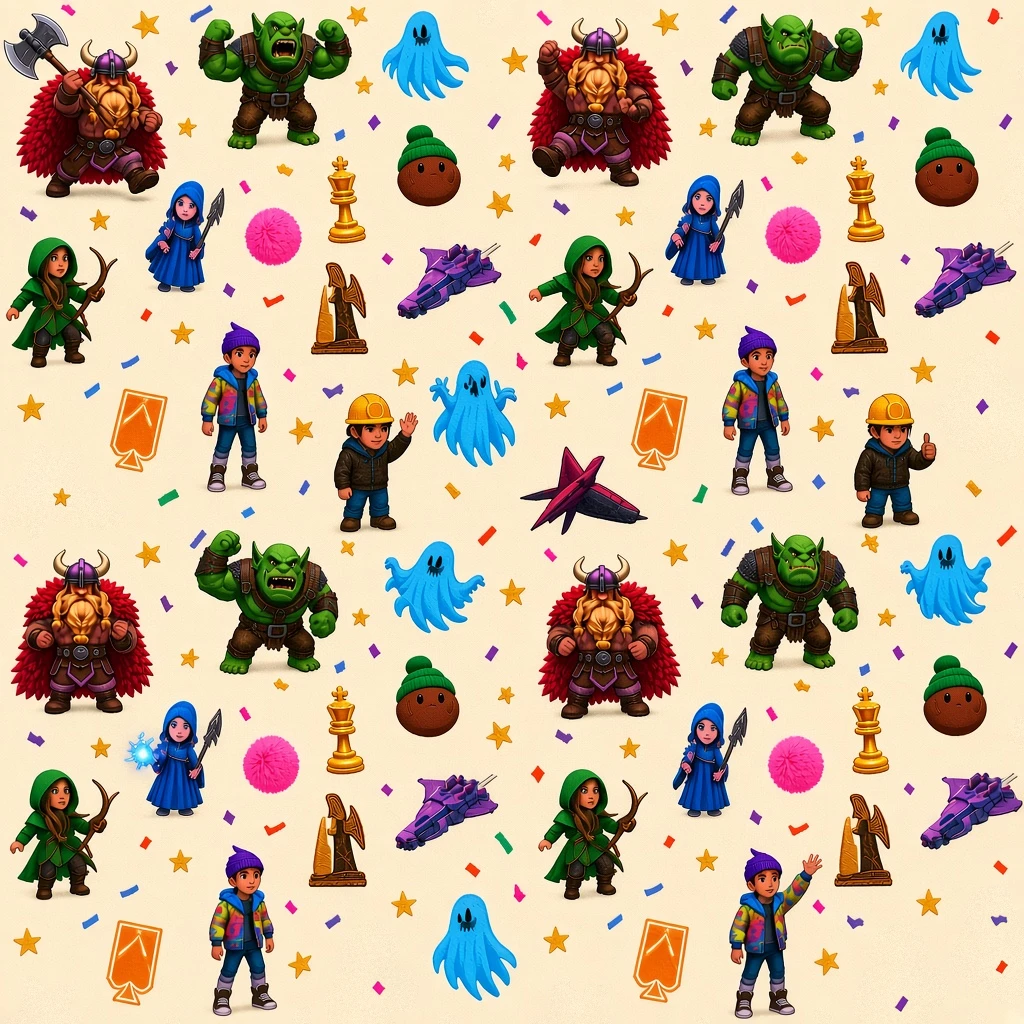
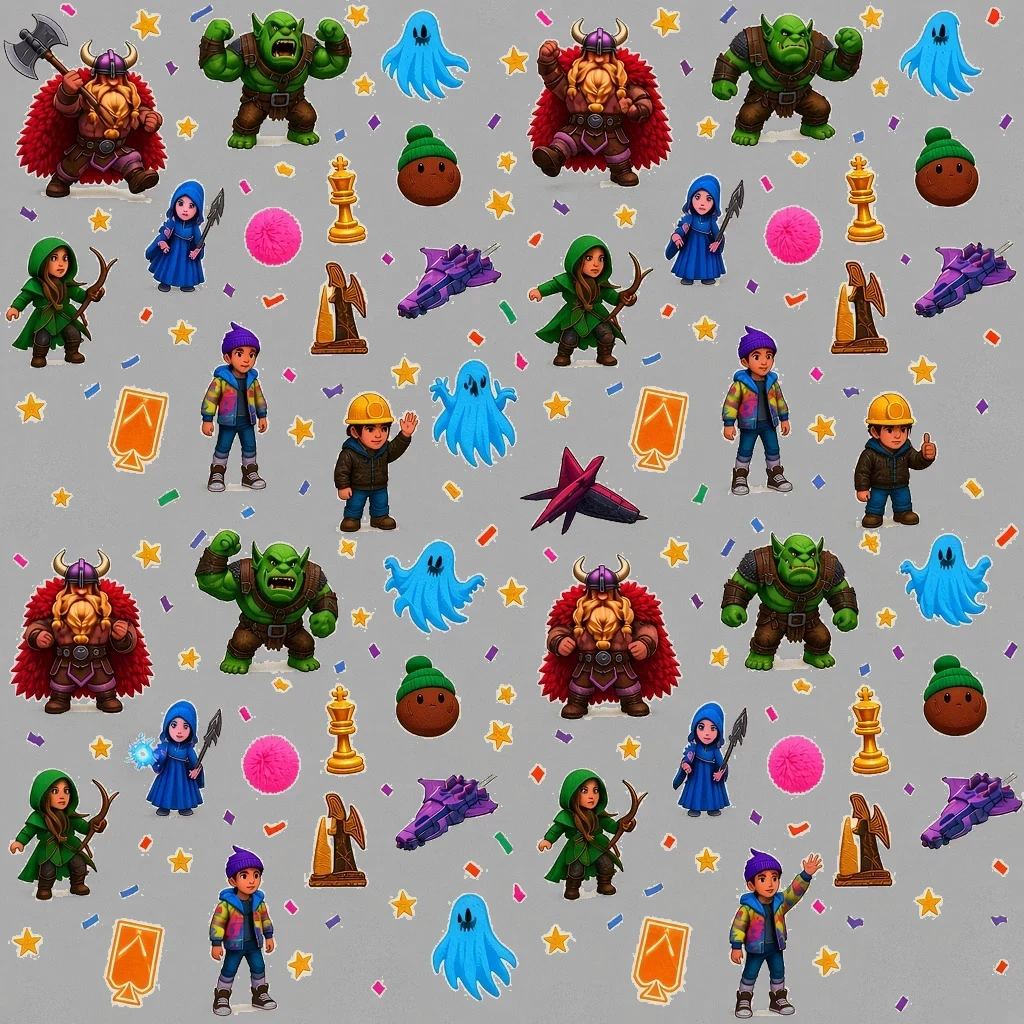
Floor menu: all 4 floors in one row (2nd row fell off-screen on phones), panel fits short screens; CHECKERS/LAVA shaders precompiled; sw revalidates (no stale HTTP cache); carpet renamed ARCADE, light grey; test/floor_tap.js; sw v56

diff --git a/test/options.js b/test/options.js
@@ -1,4 +1,4 @@
-// start screen START / OPTIONS buttons, taps elsewhere ignored, Options > FLOOR (neon / cream carpet) applied to every floor (room 1, hallway, room 2, white room) and saved
+// start screen START / OPTIONS buttons, taps elsewhere ignored, Options > FLOOR (neon / ARCADE light-grey character carpet ('carpet') / checkers / lava) applied to every floor (room 1, hallway, room 2, white room) and saved
 // node test/options.js [phone]
 const { open } = require('./lib');
 const PH = process.argv[2] === 'phone', sfx = PH ? '_phone' : '';
@@ -24,15 +24,16 @@ const PH = process.argv[2] === 'phone', sfx = PH ? '_phone' : '';
   // OPTIONS -> FLOOR tab
   await tap('#stOpt'); await page.waitForTimeout(500);
   const fl = await ev(() => { const im = [...document.querySelectorAll('#flTiles .flT img')]; return { on: !!document.querySelector('#opt.on'), n: im.length, loaded: im.every(i => i.complete && i.naturalWidth > 100), sel: document.querySelector('#flTiles .flT.sel').dataset.floor, tab: document.getElementById('tabFloor').textContent }; });
-  chk(fl.on && fl.tab === 'FLOOR' && fl.n === 4 && fl.loaded && fl.sel === 'neon', 'OPTIONS opens the menu: FLOOR tab with CURRENT, CARPET, CHECKERS, LAVA previews, neon selected');
+  chk(fl.on && fl.tab === 'FLOOR' && fl.n === 4 && fl.loaded && fl.sel === 'neon', 'OPTIONS opens the menu: FLOOR tab with CURRENT, ARCADE, CHECKERS, LAVA previews, neon selected');
   await page.screenshot({ path: `shots/options_floor${sfx}.png` });
   await tap('#flCarpet'); await page.waitForTimeout(400);
   b = await ev(() => ({ sel: document.querySelector('#flTiles .flT.sel').dataset.floor, floor: window.__arcade.floor, carpet: window.__arcade.carpet.visible, ls: localStorage.getItem('neonarcade.floor'), mg: window.__arcade.mirror.visible, all: ['carpet2', 'carpetW'].map(n => { const o = window.__arcade.room.parent.getObjectByName(n); return !!o && o.visible; }),
     hall: (() => { const g = window.__arcade.carpet.geometry; g.computeBoundingBox(); return +(g.boundingBox.max.y - g.boundingBox.min.y).toFixed(1); })(), m2: window.__arcade.room.parent.getObjectByName('floorMirror2').visible }));
-  chk(b.sel === 'carpet' && b.floor === 'carpet' && b.carpet && b.ls === 'carpet', 'tapping CARPET selects it and applies it to room 1 straight away (saved)');
+  chk(b.sel === 'carpet' && b.floor === 'carpet' && b.carpet && b.ls === 'carpet', 'tapping ARCADE selects it and applies it to room 1 straight away (saved)');
   chk(!b.mg && !b.m2, 'carpet: both floor reflectors switched off');
   chk(b.all.every(Boolean) && b.hall > 25, 'carpet covers room 1 + hallway (length ' + b.hall + ' m), room 2 and the white room ' + JSON.stringify(b.all));
   await page.screenshot({ path: `shots/options_floor_carpet${sfx}.png` });
+  chk(await ev(() => /^ARCADE/.test(document.getElementById('flCarpet').textContent) && !/CREAM/.test(document.getElementById('flTiles').textContent)), 'carpet tile is labelled ARCADE (no CREAM)');
   await tap('#optBack'); await page.waitForTimeout(300);
   b = await st(); chk(b.ex && !b.opt && !b.s.dismissed, 'BACK returns to the start screen');
   await tap('#stStart'); await page.waitForFunction(() => !document.getElementById('start'), null, { timeout: 5000 }).catch(() => {});
@@ -49,7 +50,7 @@ const PH = process.argv[2] === 'phone', sfx = PH ? '_phone' : '';
   b = await ev(() => ({ floor: window.__arcade.floor, carpet: window.__arcade.carpet.visible }));
   chk(b.floor === 'carpet' && b.carpet, 'carpet choice persists after a reload');
   await tap('#stOpt'); await page.waitForTimeout(400);
-  chk(await ev(() => document.querySelector('#flTiles .flT.sel').dataset.floor === 'carpet'), 'menu shows CARPET selected after reload');
+  chk(await ev(() => document.querySelector('#flTiles .flT.sel').dataset.floor === 'carpet'), 'menu shows ARCADE selected after reload');
   await tap('#flNeon'); await page.waitForTimeout(300);
   b = await ev(() => ({ floor: window.__arcade.floor, carpet: window.__arcade.carpet.visible, ls: localStorage.getItem('neonarcade.floor'), mg: (window.__arcade.mirror.geometry.parameters || {}).width }));
   chk(b.floor === 'neon' && !b.carpet && b.ls === 'neon' && !(b.mg < 5), 'switching back to NEON restores the reflective floor');

diff --git a/index.html b/index.html
@@ -130,7 +130,10 @@ body[data-cab=roadster] #tix.ingame{top:calc(max(10px,env(safe-area-inset-top)) 
 #optTabs{display:flex;gap:8px;margin-bottom:14px}
 .optTab{font:900 14px 'Courier New',monospace;letter-spacing:.14em;padding:8px 16px;border-radius:10px;border:2px solid #ff3cf0;background:#2a0628;color:#fff;text-shadow:0 0 6px #ff3cf0}
 #flTiles,#wlTiles{display:flex;gap:14px;justify-content:center}
-#flTiles{flex-wrap:wrap}#flTiles .flT{flex:1 1 40%;max-width:200px}
+/* 4 floors in ONE row (a wrapped 2nd row fell below the visible screen on phones, esp. landscape / with browser bars) */
+#flTiles{display:grid;grid-template-columns:repeat(4,minmax(0,1fr));gap:8px}#flTiles .flT{max-width:none;min-width:0;padding:4px;font-size:clamp(9px,2.6vmin,13px);letter-spacing:.06em}#flTiles .flT img{aspect-ratio:1;max-height:22dvh}#flTiles .flT .now{font-size:clamp(7px,1.9vmin,10px)}
+#optP{max-height:calc(100dvh - 12px);overflow-y:auto;box-sizing:border-box}
+@media (max-height:500px){#optP{padding:8px 12px 10px}#optHd{margin-bottom:6px}#optTabs{margin-bottom:8px}#optBack{margin-top:8px}#musBtn{margin-top:8px!important}}
 #opt.wl #flTiles,#opt:not(.wl) #wlTiles{display:none}
 .optTab.off{border-color:#663a66;background:#12040f;color:#a888a8;text-shadow:none}
 .flT{flex:1;max-width:240px;border-radius:12px;border:3px solid #444;background:#0a0612;padding:6px;cursor:pointer;color:#bbb;font:900 13px 'Courier New',monospace;letter-spacing:.14em;text-align:center}
@@ -157,7 +160,7 @@ body[data-cab=roadster] #tix.ingame{top:calc(max(10px,env(safe-area-inset-top)) 
 <div id="start" role="dialog" aria-label="Galactic Arcade start screen"><div id="stBg"></div><div id="stBox"><picture><source srcset="img/start.webp" type="image/webp"><img src="img/start.jpg" alt="Galactic Arcade — tap to start" draggable="false"></picture><div id="stBtns"><button class="stB" id="stStart">START</button><button class="stB" id="stOpt">OPTIONS</button></div></div>
 <div id="opt" aria-hidden="true"><div id="optP"><div id="optHd"><div id="optT">OPTIONS</div><button id="optX" title="Back">✕</button></div>
 <div id="optTabs"><button class="optTab" id="tabFloor">FLOOR</button><button class="optTab off" id="tabWalls">WALLS</button></div>
-<div id="flTiles"><div class="flT" data-floor="neon" id="flNeon"><img src="img/floor_neon.webp" alt="" draggable="false">CURRENT<span class="now">NEON</span></div><div class="flT" data-floor="carpet" id="flCarpet"><img src="img/floor_carpet.webp" alt="" draggable="false">CARPET<span class="now">CREAM</span></div><div class="flT" data-floor="checkers" id="flChk"><img src="img/floor_checkers.webp" alt="" draggable="false">CHECKERS<span class="now">BLACK + GOLD</span></div><div class="flT" data-floor="lava" id="flLava"><img src="img/floor_lava.webp" alt="" draggable="false">LAVA<span class="now">CAVE PATHS</span></div></div>
+<div id="flTiles"><div class="flT" data-floor="neon" id="flNeon"><img src="img/floor_neon.webp" alt="" draggable="false">CURRENT<span class="now">NEON</span></div><div class="flT" data-floor="carpet" id="flCarpet"><img src="img/floor_carpet.webp" alt="" draggable="false">ARCADE<span class="now">CHARACTER CARPET</span></div><div class="flT" data-floor="checkers" id="flChk"><img src="img/floor_checkers.webp" alt="" draggable="false">CHECKERS<span class="now">BLACK + GOLD</span></div><div class="flT" data-floor="lava" id="flLava"><img src="img/floor_lava.webp" alt="" draggable="false">LAVA<span class="now">CAVE PATHS</span></div></div>
 <div id="wlTiles"><div class="flT wlT" data-walls="current" id="wlCur"><img src="img/walls_current.webp" alt="" draggable="false">CURRENT<span class="now">NEON PANELS</span></div><div class="flT wlT" data-walls="viking" id="wlVik"><img src="img/walls_viking.webp" alt="" draggable="false">VIKING<span class="now">RUNE WALLS</span></div></div>
 <button class="flT" id="musBtn" style="display:block;margin:14px auto 0;width:min(100%,300px)">MUSIC: <span id="musSt">ON</span></button><button class="stB" id="optBack">BACK</button></div></div><div id="secHot" aria-hidden="true"></div>
 <div id="sec" aria-hidden="true"><div id="secP"><button id="secX" title="Cancel">✕</button><canvas id="secCv"></canvas></div></div>

diff --git a/main.js b/main.js
@@ -464,7 +464,7 @@ const dsCab = buildDeadSignalStation(); dsCab.rotation.y = Math.PI; room2.add(ds
   wn.geometry = wallTubeGeo([...cabinets, ...featured], true);                       // pink tube runs flat along the bottom of the glass
   spaceWin = setupSpaceWindow({ scene, room, renderer, HALF, H, isMobile: MOBILE, getMonkey: () => monkey, getCamera: () => camera });
 }
-// ---------- room 1 floor option: neon reflective (default) or cream character carpet (Options > FLOOR) ----------
+// ---------- room 1 floor option: neon reflective (default) or light-grey ARCADE character carpet (Options > FLOOR) ----------
 const FLOOR_KEY = 'neonarcade.floor';
 const carpetTex = new THREE.TextureLoader().load('tex/carpet.webp', () => spaceWin && floorMode === 'carpet' && spaceWin.dirty());
 carpetTex.colorSpace = THREE.SRGBColorSpace; carpetTex.wrapS = carpetTex.wrapT = THREE.RepeatWrapping;   // seamless tile (edge-cut figures removed): plain repeat, never mirrored (mirroring put copies head to head)
@@ -474,7 +474,7 @@ carpetTex.repeat.set(3, 3); carpetTex.anisotropy = renderer.capabilities.getMaxA
 const worldUV = g => { const p = g.attributes.position, uv = g.attributes.uv; for (let i = 0; i < p.count; i++) uv.setXY(i, p.getX(i) / (HALF * 2) + 0.5, p.getY(i) / (HALF * 2) + 0.5); return g; };
 const carpetGeo = mergeGeometries([worldUV(new THREE.PlaneGeometry(HALF * 2, HALF * 2)), worldUV(new THREE.PlaneGeometry(DOOR_W, HALL_L + 0.02).translate(0, HALF + HALL_L / 2, 0))]);
 const carpet = new THREE.Mesh(carpetGeo, new THREE.MeshStandardMaterial({
-  map: carpetTex, color: 0xe8ded0, roughness: 1, metalness: 0, emissive: 0xfff0dc, emissiveMap: carpetTex, emissiveIntensity: 0.3 }));   // matte; a little self-light keeps cream warm under the neon
+  map: carpetTex, color: 0xb4b4b4, roughness: 1, metalness: 0, emissive: 0xc8c8c8, emissiveMap: carpetTex, emissiveIntensity: 0.22 }));   // matte light grey (ARCADE); a little self-light keeps the prints readable under the neon
 carpet.rotation.x = -Math.PI / 2; carpet.position.y = 0.005; carpet.name = 'carpet1'; carpet.visible = false; room.add(carpet);
 const carpet2 = new THREE.Mesh(new THREE.PlaneGeometry(HALF * 2, HALF * 2), carpet.material); carpet2.rotation.x = -Math.PI / 2; carpet2.position.y = 0.005; carpet2.name = 'carpet2'; carpet2.visible = false; room2.add(carpet2);
 let carpetW = null;
@@ -540,6 +540,10 @@ function setFloor(mode) {
 }
 try { const f = localStorage.getItem(FLOOR_KEY); if (floorMats[f]) setFloor(f); } catch (e) {}
 window.__setFloor = setFloor;   // the start screen's Options menu calls this
+// pre-compile the CHECKERS / LAVA shaders a few seconds after load so the first tap on those tiles doesn't stall the phone
+setTimeout(() => { try { const m0 = carpet.material, v0 = carpet.visible; carpet.visible = true;
+  for (const m of [checkMat, lavaMat]) if (m !== m0) { carpet.material = m; renderer.compile(scene, camera); }
+  carpet.material = m0; carpet.visible = v0; } catch (e) {} }, 4000);
 
 // which room is the camera in, and can it see the other one through a doorway?
 const doorBox1 = new THREE.Box3(new THREE.Vector3(-DOOR_W / 2, 0, -HALF - 0.05), new THREE.Vector3(DOOR_W / 2, DOOR_H, -HALF + 0.05));

diff --git a/sw.js b/sw.js
@@ -1,8 +1,8 @@
-const CACHE='galactic-arcade-v55';
+const CACHE='galactic-arcade-v56';
 const ASSETS=['./','index.html','main.js','teleport.js','shop.js','tex/shop_mural_left.jpg','tex/shop_mural_right.jpg','tex/shop_mural_side.jpg','tex/shop_mural_side2.jpg','tex/shop_mural_top.jpg','tex/shop_title_wall.jpg','sfx/grok_hi.mp3','strikecab.js','strike-demo/index.html','ghostcab.js','berserkcab.js','orccab.js','orc-play/index.html','novacab.js','cybercitycab.js','tex/cc_side.jpg','tex/cc_marquee.jpg','roadstercab.js','mr-play/index.html','dscab.js','tex/ds_screen.jpg','ds-play/index.html','tex/mr_side.jpg','tex/mr_marquee_bg.jpg','nova-play/index.html','tex/nt_side.jpg','tex/nt_marquee.jpg','tex/oa_side.jpg','tex/oa_marquee.jpg','shield.js','kiosk.js','session.js','inventory.js','opts.js','mute.js','tex/bz_side.jpg','tex/bz_marquee.jpg','tex/bz_knot.jpg','ghost-demo/index.html','play.js','strike-play/index.html','ghost-play/index.html','ticket-art.js','music.js','pa.js','audio/pa_welcome.ogg','audio/pa_welcome.m4a','audio/neon_nights.ogg','audio/neon_nights.m4a','img/start.webp','img/start.jpg','tex/carpet.webp','spacewin.js','tex/space_nebula.webp','img/floor_neon.webp','img/floor_carpet.webp','img/floor_checkers.webp','img/floor_lava.webp','img/walls_current.webp','img/walls_viking.webp','tex/viking_walls.jpg','monkeycab.js','monkey-play/index.html','berserker-play/index.html','tex/mc_side.jpg','tex/mc_marquee.jpg','tex/mc_panel.jpg','img/bz_title.jpg','manifest.webmanifest','icons/icon-192.png','icons/icon-512.png','icons/icon-maskable-512.png','icons/apple-touch-icon.png',
 'vendor/three.module.js','vendor/addons/objects/Reflector.js','vendor/addons/postprocessing/EffectComposer.js','vendor/addons/postprocessing/RenderPass.js','vendor/addons/postprocessing/UnrealBloomPass.js','vendor/addons/postprocessing/OutputPass.js','vendor/addons/postprocessing/Pass.js','vendor/addons/postprocessing/ShaderPass.js','vendor/addons/postprocessing/MaskPass.js','vendor/addons/shaders/CopyShader.js','vendor/addons/shaders/LuminosityHighPassShader.js','vendor/addons/shaders/OutputShader.js','vendor/addons/utils/BufferGeometryUtils.js'];
 self.addEventListener('install',e=>{e.waitUntil(caches.open(CACHE).then(c=>c.addAll(ASSETS)).then(()=>self.skipWaiting()));});
 self.addEventListener('activate',e=>{e.waitUntil(caches.keys().then(ks=>Promise.all(ks.filter(k=>k!==CACHE).map(k=>caches.delete(k)))).then(()=>self.clients.claim()));});
-// network-first so updates show up, cache fallback for offline
+// network-first so updates show up (no-cache: revalidate with the server, never a stale HTTP-cached index.html/main.js), cache fallback for offline
 self.addEventListener('fetch',e=>{const r=e.request;if(r.method!=='GET'||new URL(r.url).origin!==location.origin)return;
-  e.respondWith(fetch(r).then(res=>{const cp=res.clone();caches.open(CACHE).then(c=>c.put(r,cp));return res;}).catch(()=>caches.match(r,{ignoreSearch:true}).then(m=>m||caches.match('index.html'))));});
+  e.respondWith(fetch(r,{cache:'no-cache'}).then(res=>{const cp=res.clone();caches.open(CACHE).then(c=>c.put(r,cp));return res;}).catch(()=>caches.match(r,{ignoreSearch:true}).then(m=>m||caches.match('index.html'))));});

diff --git a/test/floor_tap.js b/test/floor_tap.js
@@ -1,0 +1,17 @@
+// Options > Floor on a phone: tap every floor tile with touch (portrait + landscape) and check the floor changed and the tile is fully on screen.
+// node test/floor_tap.js [url] [land]   (default: local server)
+const { chromium } = require('/workspace/burrow-buster/node_modules/playwright');
+const URL0 = process.argv[2] && process.argv[2] !== 'local' ? process.argv[2] : null, L = process.argv[3] === 'land';
+(async () => { let srv = null, base = URL0; if (!base) { const http = require('http'), fs = require('fs'), path = require('path'), R = path.resolve(__dirname, '..'); srv = http.createServer((q, r) => { let f = path.join(R, decodeURIComponent(q.url.split('?')[0])); if (f.endsWith('/')) f += 'index.html'; fs.readFile(f, (e, d) => { if (e) { r.writeHead(404); return r.end(); } r.writeHead(200, { 'Content-Type': f.endsWith('.js') ? 'text/javascript' : f.endsWith('.html') ? 'text/html' : f.endsWith('.webp') ? 'image/webp' : 'application/octet-stream' }); r.end(d); }); }).listen(0); await new Promise(r => srv.on('listening', r)); base = `http://localhost:${srv.address().port}/`; }
+  let fail = 0; const b = await chromium.launch({ executablePath: '/home/box/.cache/ms-playwright/chromium-1248/chrome-linux64/chrome', args: ['--use-gl=angle', '--use-angle=swiftshader', '--enable-unsafe-swiftshader'] });
+ const ctx = await b.newContext({ viewport: L ? { width: 844, height: 390 } : { width: 390, height: 844 }, deviceScaleFactor: 2, isMobile: true, hasTouch: true }); const p = await ctx.newPage(); p.on('pageerror', e => { console.log('ERR', String(e)); fail++; }); p.on('console', m => m.type()==='error' && console.log('CERR', m.text()));
+ await p.goto(base + '?cb=' + Date.now()); await p.waitForSelector('#stOpt'); await p.waitForTimeout(3000);
+ await p.tap('#stOpt'); await p.waitForTimeout(800);
+ for (const f of ['checkers', 'lava', 'carpet', 'neon']) { const el = p.locator(`#flTiles .flT[data-floor="${f}"]`); const bb = await el.boundingBox();
+   const top = bb ? await p.evaluate(([x, y]) => { const e = document.elementFromPoint(x, y); return e ? (e.id || e.className || e.tagName) : null; }, [bb.x + bb.width / 2, bb.y + bb.height / 2]) : null;
+   let err = ''; try { await p.touchscreen.tap(bb.x + bb.width/2, bb.y + bb.height/2); await p.waitForTimeout(1500); } catch (e) { err = e.message.split('\n')[0]; } await p.waitForTimeout(400);
+   const now = await p.evaluate(() => [window.__start && window.__start.floor, localStorage.getItem('neonarcade.floor'), document.querySelector('#flTiles .flT.sel').dataset.floor]);
+   const vh = L ? 390 : 844, onScreen = bb && bb.y >= 0 && bb.y + bb.height <= vh;
+   const ok = now.every(v => v === f) && onScreen && !err; if (!ok) fail++;
+   console.log((ok ? 'PASS ' : 'FAIL ') + f, JSON.stringify(bb), 'top:', top, 'now', now, err); }
+ await p.screenshot({ path: __dirname + '/../shots/floor_menu_phone' + (L ? '_land' : '') + '.png' }); await b.close(); if (srv) srv.close(); console.log(fail ? 'FAIL' : 'PASS all tiles'); process.exit(fail ? 1 : 0); })();

diff --git a/test/floor_shots.js b/test/floor_shots.js
@@ -6,5 +6,6 @@ const PHONE = process.argv[2] === 'phone', dev = PHONE ? 'phone' : 'desktop';
   for (const f of ['checkers', 'lava']) for (const [k, p, yaw] of [['room1', [3, 6], 0.5], ['hall', [0, -9], 0]]) {
     await page.evaluate(([f, p, yaw]) => { const A = window.__arcade; A.setFloor(f); window.__camOverride = null; A.st.fp = false; A.monkey.position.set(p[0], 0, p[1]); A.st.vel.set(0, 0, 0); A.st.yaw = yaw; A.st.pitch = 0.35; A.st.lookT = A.st.t; }, [f, p, yaw]);
     await page.waitForTimeout(1500); await page.screenshot({ path: `shots/floor_${f}_${k}_${dev}.png` }); }
+  if (PHONE) { await page.evaluate(() => { const A = window.__arcade; A.setFloor('carpet'); A.monkey.position.set(3, 0, 6); A.st.vel.set(0, 0, 0); A.st.yaw = 0.5; A.st.pitch = 0.35; A.st.lookT = A.st.t; }); await page.waitForTimeout(2000); await page.screenshot({ path: 'shots/floor_arcade_room1_phone.png' }); }
   console.log(errors.length ? 'FAIL ' + errors.slice(0, 3) : 'PASS shots'); await close(); process.exit(errors.length ? 1 : 0);
 })();
